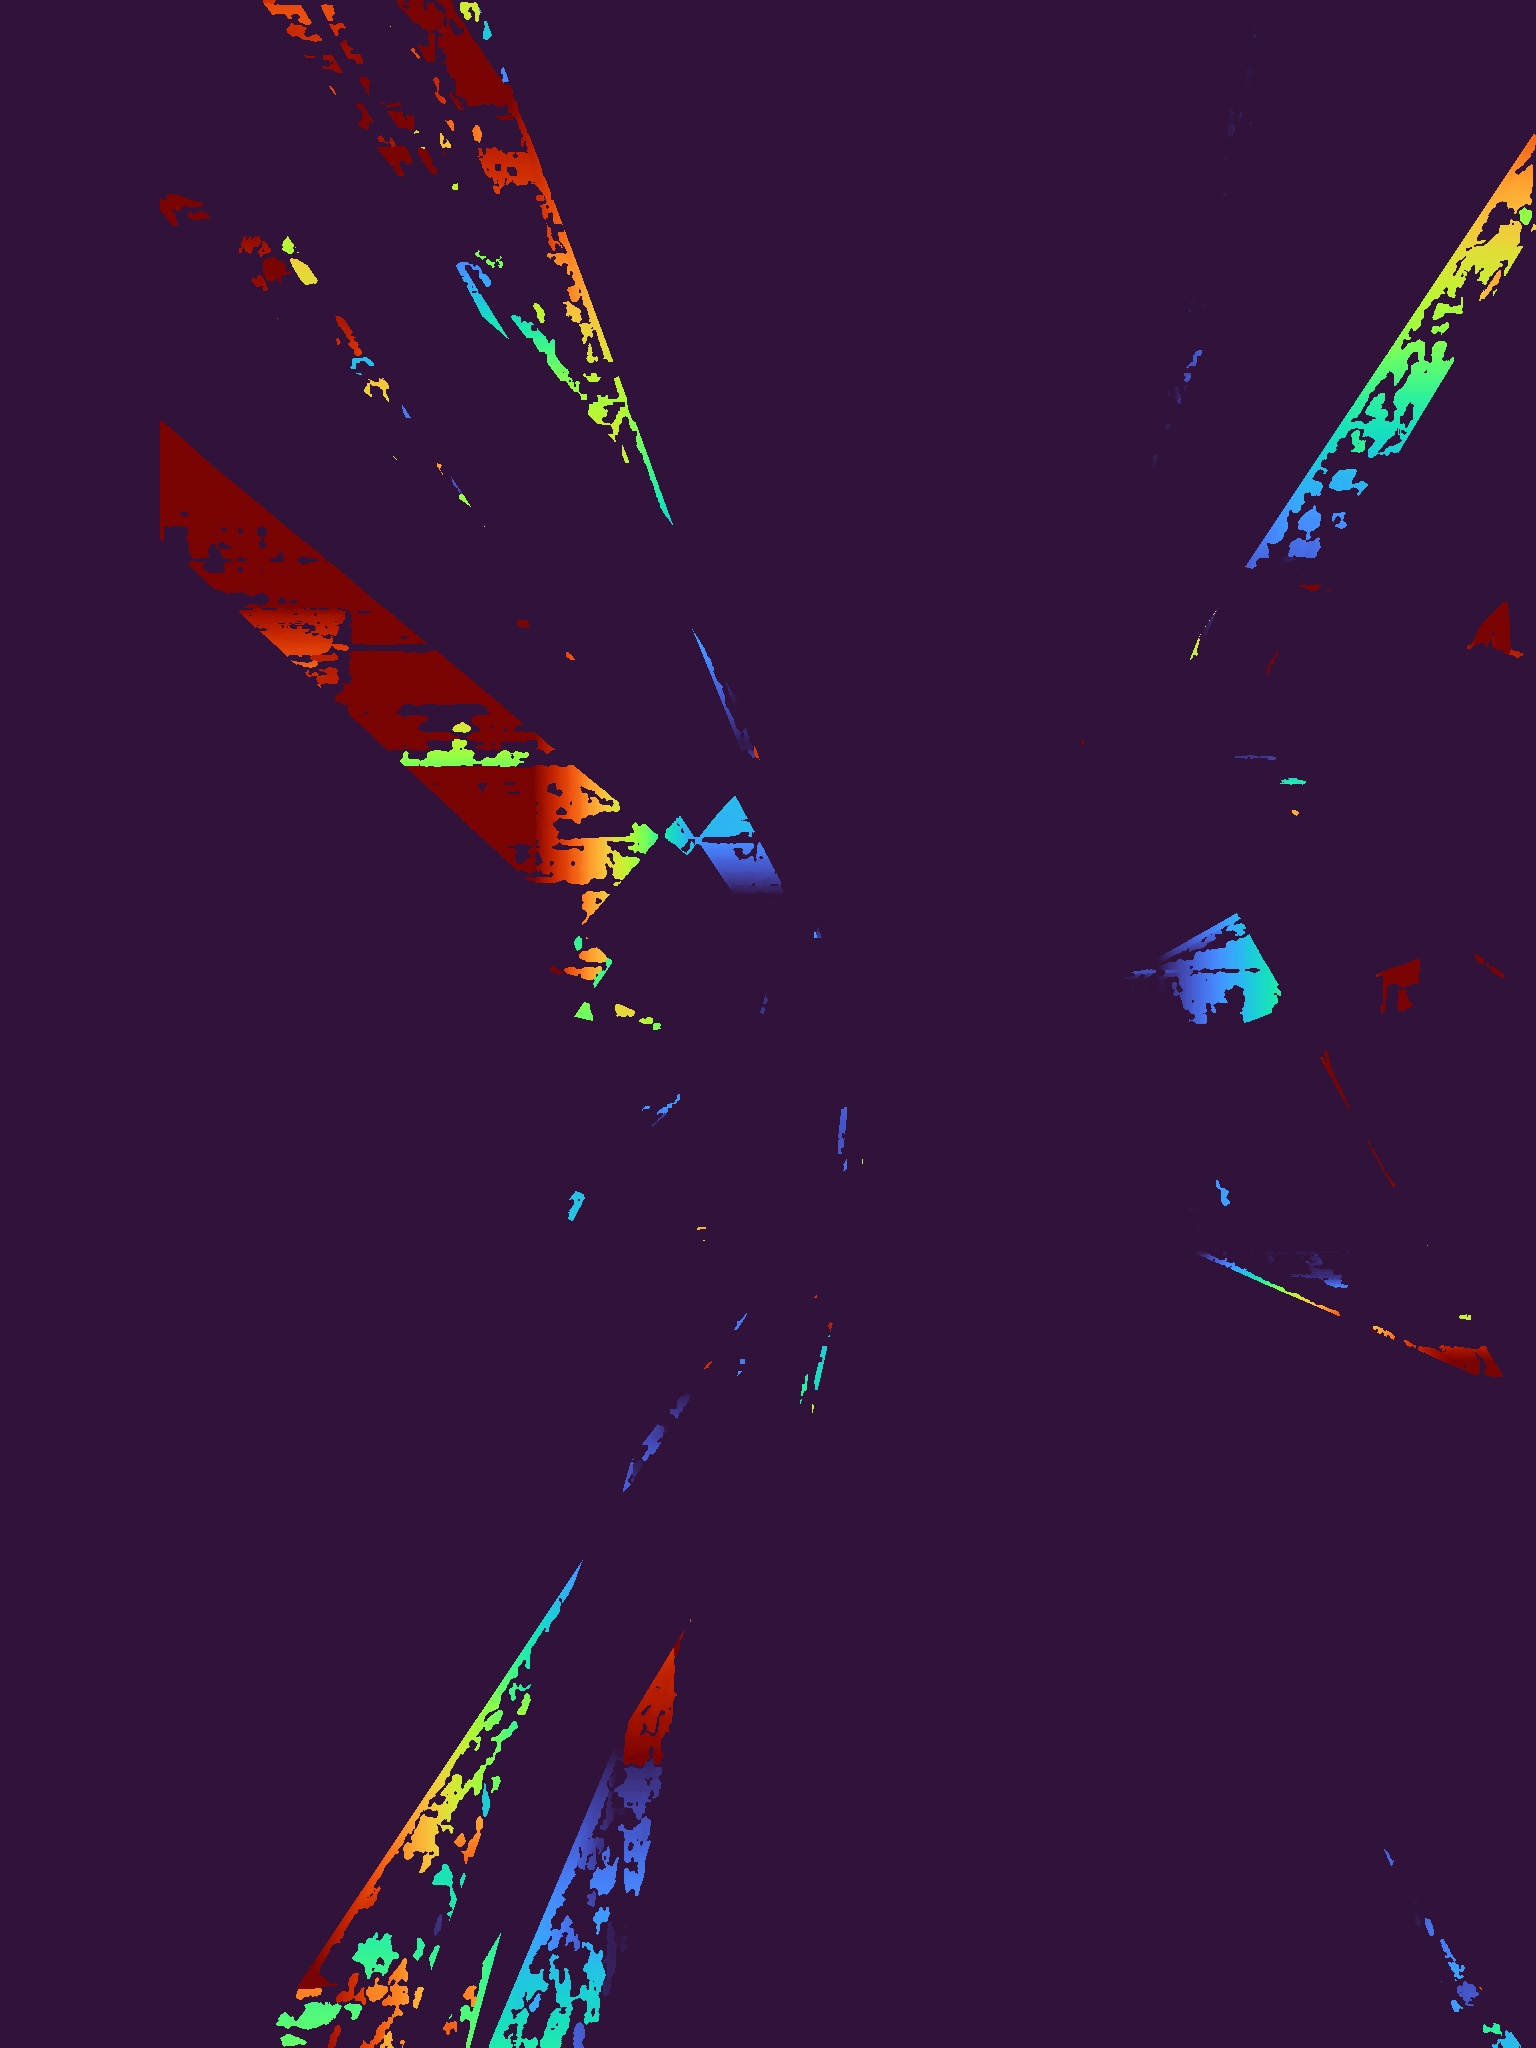
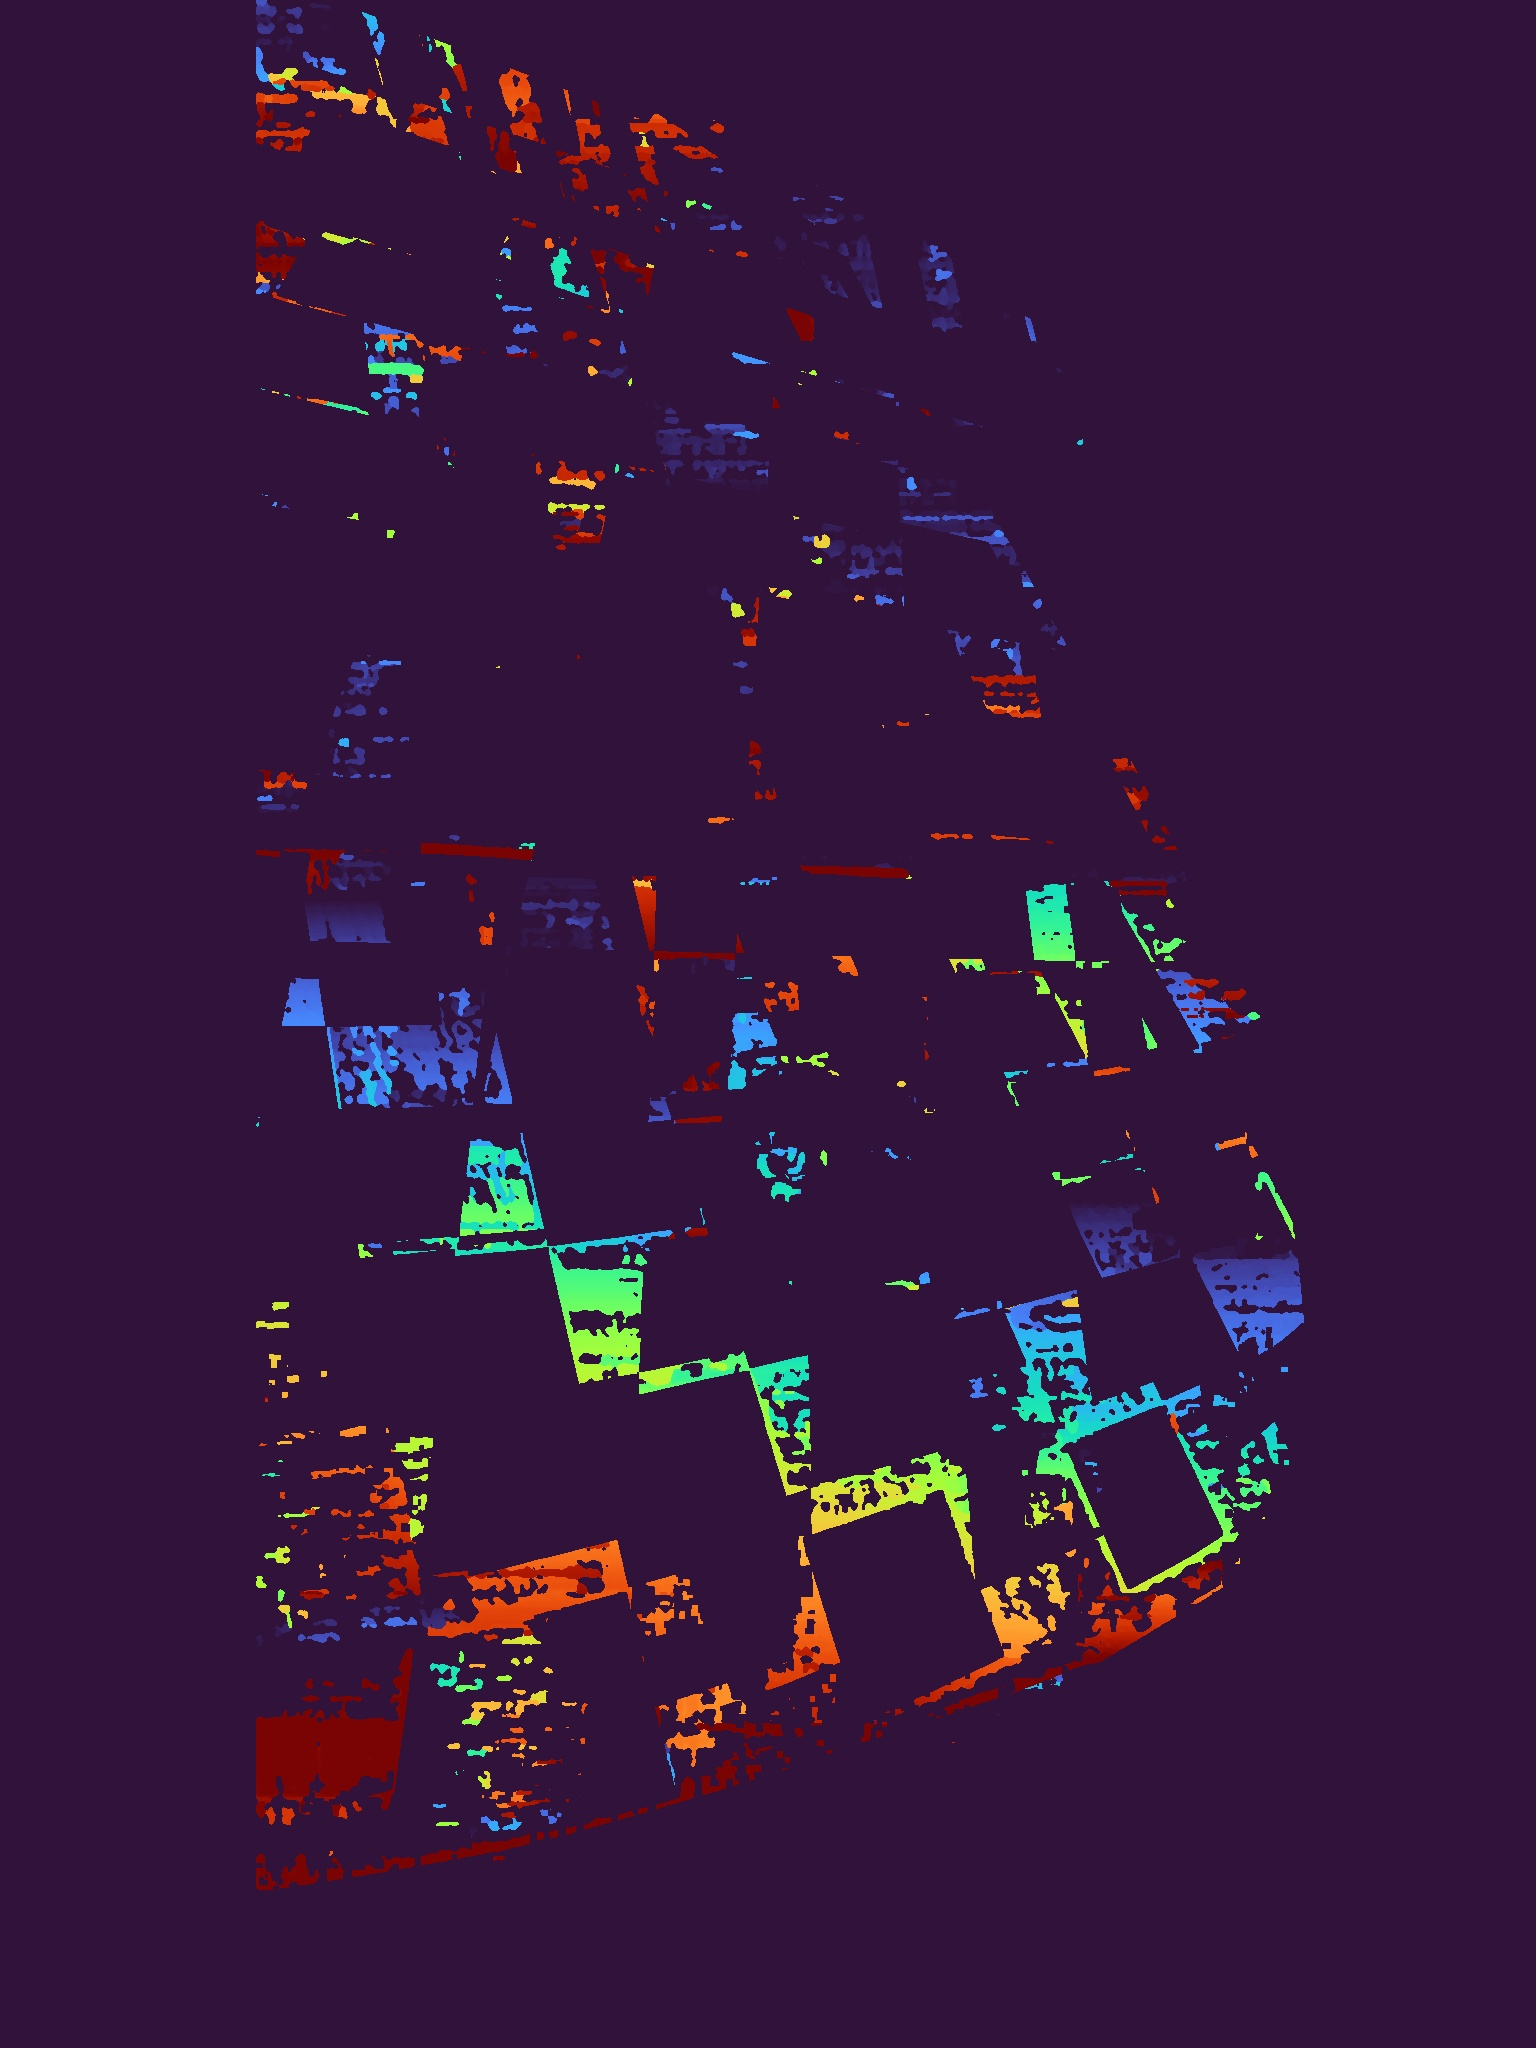
[chore]: finalised cv

diff --git a/coursework_tasks.py b/coursework_tasks.py
@@ -638,7 +638,13 @@ def estimate_outlier_tolerance(pts1, pts2, max_trials=30):
     return ratios, survivals, tol
 
 
-def run_task4(hg_paths, fd_paths, out_dir, calibration=None):
+def run_task4(
+    hg_paths,
+    fd_paths,
+    out_dir,
+    calibration=None,
+    fd_feature_method="akaze",
+):
     """Task 4: homography/fundamental estimation and geometric diagnostics."""
     t4_dir = os.path.join(out_dir, "task4")
     ensure_dir(t4_dir)
@@ -664,6 +670,7 @@ def run_task4(hg_paths, fd_paths, out_dir, calibration=None):
     best_fd = select_best_pair(
         fd_paths,
         estimator="fundamental",
+        feature_method=fd_feature_method,
         image_transform=fd_transform,
     )
     fd1 = best_fd["img1"]
@@ -766,6 +773,7 @@ def run_task5(
     fundamental_total_matches=None,
     min_f_inliers=15,
     min_f_inlier_ratio=0.30,
+    rectify_threshold=5.0,
 ):
     """Task 5: uncalibrated rectification, disparity, and relative depth estimation."""
     t5_dir = os.path.join(out_dir, "task5")
@@ -801,7 +809,11 @@ def run_task5(
     h, w = fd1.shape[:2]
 
     ok, H1, H2 = cv2.stereoRectifyUncalibrated(
-        pts1.reshape(-1, 2), pts2.reshape(-1, 2), F, imgSize=(w, h)
+        pts1.reshape(-1, 2),
+        pts2.reshape(-1, 2),
+        F,
+        imgSize=(w, h),
+        threshold=rectify_threshold,
     )
     if not ok:
         with open(os.path.join(t5_dir, "rectification_failed.txt"), "w", encoding="utf-8") as f:
@@ -835,7 +847,7 @@ def run_task5(
     g2 = cv2.cvtColor(r2[y0:y1 + 1, x0:x1 + 1], cv2.COLOR_BGR2GRAY)
 
     roi_w = int(g1.shape[1])
-    num_disp = min(16 * 10, max(16, (roi_w // 16) * 16))
+    num_disp = min(16 * 16, max(16, (roi_w // 16) * 16))
     if num_disp >= roi_w:
         num_disp = max(16, ((roi_w // 16) - 1) * 16)
     if num_disp < 16:
@@ -844,21 +856,23 @@ def run_task5(
             f.write(f"roi_width: {roi_w}\n")
         return
 
+    block_size = 5
     sgbm = cv2.StereoSGBM_create(
         minDisparity=0,
         numDisparities=num_disp,
-        blockSize=7,
-        P1=8 * 3 * 7 ** 2,
-        P2=32 * 3 * 7 ** 2,
+        blockSize=block_size,
+        P1=8 * 3 * block_size ** 2,
+        P2=32 * 3 * block_size ** 2,
         disp12MaxDiff=1,
-        uniquenessRatio=10,
-        speckleWindowSize=100,
+        uniquenessRatio=5,
+        speckleWindowSize=50,
         speckleRange=2,
         preFilterCap=63,
         mode=cv2.STEREO_SGBM_MODE_SGBM_3WAY,
     )
 
     disp_roi = sgbm.compute(g1, g2).astype(np.float32) / 16.0
+    disp_roi = cv2.medianBlur(disp_roi, 5)
     disp = np.full((h, w), np.nan, np.float32)
     disp[y0:y1 + 1, x0:x1 + 1] = disp_roi
     disp[disp <= 0] = np.nan
@@ -871,6 +885,7 @@ def run_task5(
 
     disp_vis = np.nan_to_num(disp, nan=0.0)
     disp_vis = cv2.normalize(disp_vis, None, 0, 255, cv2.NORM_MINMAX).astype(np.uint8)
+    disp_vis = cv2.equalizeHist(disp_vis)
 
     disp_color = cv2.applyColorMap(disp_vis, cv2.COLORMAP_TURBO)
     depth_color = cv2.applyColorMap(rel_depth, cv2.COLORMAP_TURBO)
@@ -935,6 +950,12 @@ def main():
     parser.add_argument("--fd-no-object-dir", default="")
     parser.add_argument("--hg-dir", default="cv_pictures/HG")
     parser.add_argument("--out-dir", default="outputs")
+    parser.add_argument(
+        "--fd-feature-method",
+        default="akaze",
+        choices=["sift_orb", "sift", "orb", "akaze"],
+        help="Feature method for FD pair selection in Task 4/5",
+    )
     parser.add_argument("--pattern-rows", type=int, default=5, help="Chessboard inner corners rows")
     parser.add_argument("--pattern-cols", type=int, default=7, help="Chessboard inner corners cols")
     parser.add_argument("--min-f-inliers", type=int, default=15, help="Minimum F inliers required for Task 5")
@@ -943,6 +964,12 @@ def main():
         type=float,
         default=0.30,
         help="Minimum F inlier ratio required for Task 5",
+    )
+    parser.add_argument(
+        "--rectify-threshold",
+        type=float,
+        default=5.0,
+        help="Inlier threshold passed to stereoRectifyUncalibrated",
     )
     parser.add_argument("--no-manual", action="store_true", help="Disable manual clicking for task 2")
     parser.add_argument("--manual-points", type=int, default=12)
@@ -1034,7 +1061,13 @@ def main():
             "Task 5 foreground-only outputs cannot be computed."
         )
 
-    t4 = run_task4(hg_paths, fd_paths_for_t45, args.out_dir, calibration=calib)
+    t4 = run_task4(
+        hg_paths,
+        fd_paths_for_t45,
+        args.out_dir,
+        calibration=calib,
+        fd_feature_method=args.fd_feature_method,
+    )
 
     print("Running Task 5...")
     fd1_bg = None
@@ -1065,6 +1098,7 @@ def main():
         fundamental_total_matches=t4["fundamental_total_matches"],
         min_f_inliers=args.min_f_inliers,
         min_f_inlier_ratio=args.min_f_inlier_ratio,
+        rectify_threshold=args.rectify_threshold,
     )
 
     print("Outputs written to:", args.out_dir)
